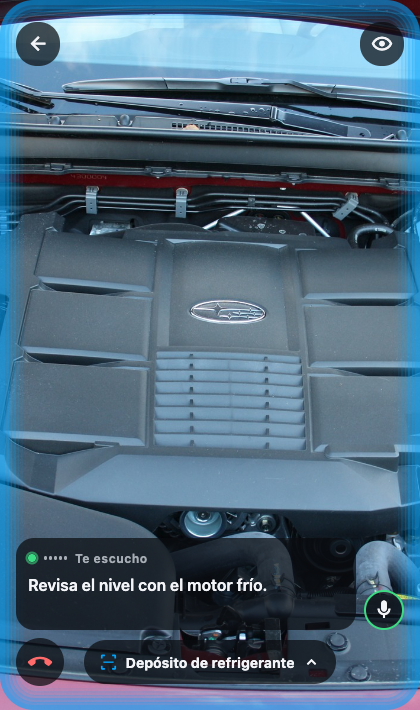
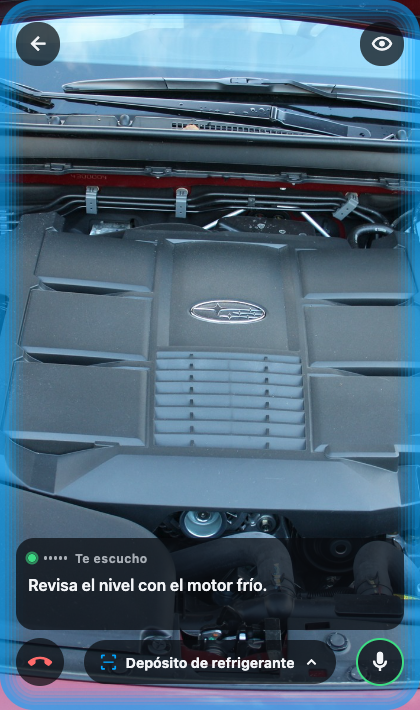
Align scanner call controls below full-width captions

Changed region(s): [[0.8357, 0.7437, 0.9595, 0.9915]]

diff --git a/app/src/escaner/vivo/TarjetaVivo.tsx b/app/src/escaner/vivo/TarjetaVivo.tsx
@@ -23,7 +23,7 @@ export function TarjetaVivo({ vivo, caption, part, children }: {
   part?: PartId;
   children?: ReactNode;
 }) {
-  const { estado, nivel, cerrando, parcial, pregunta, error, silenciado, alternarSilencio, hablando: asistenteHabla, callar } = vivo;
+  const { estado, nivel, cerrando, parcial, pregunta, error, hablando: asistenteHabla, callar } = vivo;
   const [open, setOpen] = useState(false);
   const chunk = useCaptionChunk(caption.text);
   const pensando = estado === 'escuchando' && caption.pensando;
@@ -35,71 +35,61 @@ export function TarjetaVivo({ vivo, caption, part, children }: {
   const label = citation ? sourceLabel(citation.title) || citation.source : '';
 
   return (
-    <View style={styles.fila}>
-      <Pressable
-        style={styles.tarjeta}
-        disabled={!respondiendo}
-        accessible={respondiendo}
-        onPress={callar}
-        accessibilityRole={respondiendo ? 'button' : undefined}
-        accessibilityLabel={respondiendo ? 'Callar al asistente' : undefined}
-      >
-        <View style={styles.cabecera}>
-          <View style={styles.izquierda}>
-            {pensando || transcribiendo ? (
-              <ActivityIndicator size="small" color={color.acento} />
-            ) : estado === 'silenciado' ? (
-              <View style={[styles.punto, { backgroundColor: color.textoTenue }]} />
-            ) : respondiendo ? (
-              <Icono nombre="volume-high" tam={16} tono={color.acento} />
-            ) : hablando ? null : (
-              <PuntoRespira />
-            )}
-            {estado !== 'silenciado' && !pensando && !transcribiendo && !respondiendo && (
-              <Barras nivel={nivel} tono={hablando ? (cerrando ? 'plano' : 'activo') : 'reposo'} />
-            )}
-            <Text style={styles.etiqueta} numberOfLines={1}>
-              {pensando ? caption.text : respondiendo ? 'Hablando · toca para callar' : etiqueta(estado, cerrando)}
-            </Text>
-          </View>
-          {guia && (
-            <View style={styles.derecha}>
-              {part && <Text style={styles.pieza} numberOfLines={1}>{parts[part][0]}</Text>}
-              {citation && (
-                <Pressable accessibilityRole="button" accessibilityLabel={`Ver cita: ${label}`} onPress={() => setOpen(true)} style={styles.fuente} hitSlop={8}>
-                  <Text style={styles.fuenteTexto} numberOfLines={1}>{label}</Text>
-                </Pressable>
-              )}
-            </View>
+    <Pressable
+      style={styles.tarjeta}
+      disabled={!respondiendo}
+      accessible={respondiendo}
+      onPress={callar}
+      accessibilityRole={respondiendo ? 'button' : undefined}
+      accessibilityLabel={respondiendo ? 'Callar al asistente' : undefined}
+    >
+      <View style={styles.cabecera}>
+        <View style={styles.izquierda}>
+          {pensando || transcribiendo ? (
+            <ActivityIndicator size="small" color={color.acento} />
+          ) : estado === 'silenciado' ? (
+            <View style={[styles.punto, { backgroundColor: color.textoTenue }]} />
+          ) : respondiendo ? (
+            <Icono nombre="volume-high" tam={16} tono={color.acento} />
+          ) : hablando ? null : (
+            <PuntoRespira />
           )}
-        </View>
-        {error ? (
-          <Text style={[styles.cuerpo, { color: color.textoSuave }]} numberOfLines={2}>{error}</Text>
-        ) : hablando ? (
-          <Text style={styles.cuerpo} numberOfLines={3}>
-            {parcial}
-            {!cerrando && <Cursor />}
+          {estado !== 'silenciado' && !pensando && !transcribiendo && !respondiendo && (
+            <Barras nivel={nivel} tono={hablando ? (cerrando ? 'plano' : 'activo') : 'reposo'} />
+          )}
+          <Text style={styles.etiqueta} numberOfLines={1}>
+            {pensando ? caption.text : respondiendo ? 'Hablando · toca para callar' : etiqueta(estado, cerrando)}
           </Text>
-        ) : transcribiendo ? (
-          <Text style={[styles.cuerpo, !parcial && { color: color.textoTenue }]} numberOfLines={3}>{parcial || '…'}</Text>
-        ) : pensando ? (
-          <Text style={[styles.cuerpo, { color: color.textoSuave }]} numberOfLines={2}>{pregunta}</Text>
-        ) : (
-          <Text style={styles.cuerpo} numberOfLines={2} accessibilityLiveRegion="polite">{chunk}</Text>
+        </View>
+        {guia && (
+          <View style={styles.derecha}>
+            {part && <Text style={styles.pieza} numberOfLines={1}>{parts[part][0]}</Text>}
+            {citation && (
+              <Pressable accessibilityRole="button" accessibilityLabel={`Ver cita: ${label}`} onPress={() => setOpen(true)} style={styles.fuente} hitSlop={8}>
+                <Text style={styles.fuenteTexto} numberOfLines={1}>{label}</Text>
+              </Pressable>
+            )}
+          </View>
         )}
-        {guia && children}
-        {hablando && cerrando && <BarraCierre />}
-        <CitationModal citation={open ? citation : null} onClose={() => setOpen(false)} />
-      </Pressable>
-      <Pressable
-        onPress={alternarSilencio}
-        accessibilityRole="button"
-        accessibilityLabel={silenciado ? 'Reactivar micrófono' : 'Silenciar micrófono'}
-        style={[styles.mic, !silenciado && styles.micAbierto]}
-      >
-        <Icono nombre={silenciado ? 'microphone-off' : 'microphone'} tam={22} tono={silenciado ? color.peligro : color.texto} />
-      </Pressable>
-    </View>
+      </View>
+      {error ? (
+        <Text style={[styles.cuerpo, { color: color.textoSuave }]} numberOfLines={2}>{error}</Text>
+      ) : hablando ? (
+        <Text style={styles.cuerpo} numberOfLines={3}>
+          {parcial}
+          {!cerrando && <Cursor />}
+        </Text>
+      ) : transcribiendo ? (
+        <Text style={[styles.cuerpo, !parcial && { color: color.textoTenue }]} numberOfLines={3}>{parcial || '…'}</Text>
+      ) : pensando ? (
+        <Text style={[styles.cuerpo, { color: color.textoSuave }]} numberOfLines={2}>{pregunta}</Text>
+      ) : (
+        <Text style={styles.cuerpo} numberOfLines={2} accessibilityLiveRegion="polite">{chunk}</Text>
+      )}
+      {guia && children}
+      {hablando && cerrando && <BarraCierre />}
+      <CitationModal citation={open ? citation : null} onClose={() => setOpen(false)} />
+    </Pressable>
   );
 }
 
@@ -176,8 +166,7 @@ function BarraCierre() {
 }
 
 const styles = StyleSheet.create({
-  fila: { flexDirection: 'row', alignItems: 'flex-end', gap: espacio.s },
-  tarjeta: { flex: 1, minWidth: 0, overflow: 'hidden', backgroundColor: color.velo, borderRadius: radio.l, padding: espacio.m, gap: espacio.s },
+  tarjeta: { alignSelf: 'stretch', minWidth: 0, overflow: 'hidden', backgroundColor: color.velo, borderRadius: radio.l, padding: espacio.m, gap: espacio.s },
   cabecera: { flexDirection: 'row', alignItems: 'center', gap: espacio.s, minHeight: 16 },
   izquierda: { flexDirection: 'row', alignItems: 'center', gap: espacio.s, flexShrink: 0 },
   derecha: { flex: 1, flexDirection: 'row', alignItems: 'center', justifyContent: 'flex-end', gap: espacio.s, minWidth: 0 },
@@ -192,6 +181,4 @@ const styles = StyleSheet.create({
   cuerpo: { color: color.texto, fontSize: 16, lineHeight: 22, fontWeight: '600', minHeight: 44 },
   cursor: { width: 2, height: 16, marginLeft: 2, backgroundColor: color.acento },
   cierre: { position: 'absolute', left: 0, bottom: 0, height: 2, backgroundColor: color.acento },
-  mic: { width: 40, height: 40, borderRadius: 20, alignItems: 'center', justifyContent: 'center', backgroundColor: color.velo, borderWidth: 2, borderColor: 'transparent' },
-  micAbierto: { borderColor: color.exito },
 });

diff --git a/app/src/escaner/comun.tsx b/app/src/escaner/comun.tsx
@@ -10,6 +10,7 @@ import { CONFIANZA_MIN } from '../detector/vano';
 import { color, espacio, radio, tipo } from '../theme';
 import { Boton, BotonIcono, Icono, type NombreIcono } from '../ui';
 import { useVehicleSelection } from '../plates/selection';
+import { useVivo } from './vivo/ModoVivo';
 import { GuideBanner } from './GuideBanner';
 import { parts, type PartId } from '../engine-maps/catalog';
 import { vehicles } from '../vehicles';
@@ -72,6 +73,7 @@ export function ScannerControls({ controls, status, children, top, captions, ste
   step?: { part: PartId; instruction: string };
 }) {
   const insets = useSafeAreaInsets();
+  const liveVoice = useVivo();
   const { mode, setMode, debug, toggleDebug, hasError, sonnetAnchor, toggleSonnetAnchor } = controls;
   const expanded = mode === 'details';
   const hidden = mode === 'hidden';
@@ -125,7 +127,7 @@ export function ScannerControls({ controls, status, children, top, captions, ste
             {conversation?.enabled && (
               <Pressable accessibilityRole="button" accessibilityLabel="Terminar conversación"
                 onPress={() => { setMode('compact'); conversation.toggle(); }}
-                style={({ pressed }) => [estilos.hangUp, pressed && { opacity: 0.75 }]}>
+                style={({ pressed }) => [estilos.callControl, estilos.hangUp, pressed && { opacity: 0.75 }]}>
                 <Icono nombre="phone-hangup" tam={24} tono={color.peligro} />
               </Pressable>
             )}
@@ -136,6 +138,15 @@ export function ScannerControls({ controls, status, children, top, captions, ste
               <Text style={estilos.statusText} numberOfLines={1}>{expanded ? 'Cerrar detalles' : status}</Text>
               <Icono nombre={expanded ? 'chevron-down' : 'chevron-up'} tam={18} />
             </Pressable>
+            {conversation?.enabled && liveVoice && (
+              <Pressable accessibilityRole="button"
+                accessibilityLabel={liveVoice.silenciado ? 'Reactivar micrófono' : 'Silenciar micrófono'}
+                onPress={liveVoice.alternarSilencio}
+                style={({ pressed }) => [estilos.callControl, estilos.microphone, !liveVoice.silenciado && estilos.liveMic, pressed && { opacity: 0.75 }]}>
+                <Icono nombre={liveVoice.silenciado ? 'microphone-off' : 'microphone'} tam={24}
+                  tono={liveVoice.silenciado ? color.peligro : color.texto} />
+              </Pressable>
+            )}
           </View>
         </View>
       )}
@@ -247,7 +258,10 @@ export const estilos = StyleSheet.create({
   chipTexto: { fontSize: 12, fontWeight: '700', color: color.texto },
   dock: { position: 'absolute', left: espacio.l, right: espacio.l, maxHeight: '55%', gap: espacio.s },
   liveFooter: { justifyContent: 'center', minHeight: 48, paddingHorizontal: 48 + espacio.s },
-  hangUp: { position: 'absolute', left: 0, top: 0, width: 48, height: 48, borderRadius: 24,
+  hangUp: { left: 0 },
+  microphone: { right: 0 },
+  liveMic: { borderWidth: 2, borderColor: color.exito },
+  callControl: { position: 'absolute', top: 0, width: 48, height: 48, borderRadius: 24,
     alignItems: 'center', justifyContent: 'center', backgroundColor: color.velo },
   status: { alignSelf: 'center', maxWidth: '100%', minHeight: 44, borderRadius: 24, paddingHorizontal: espacio.l,
     flexDirection: 'row', alignItems: 'center', gap: espacio.s, backgroundColor: color.velo },
